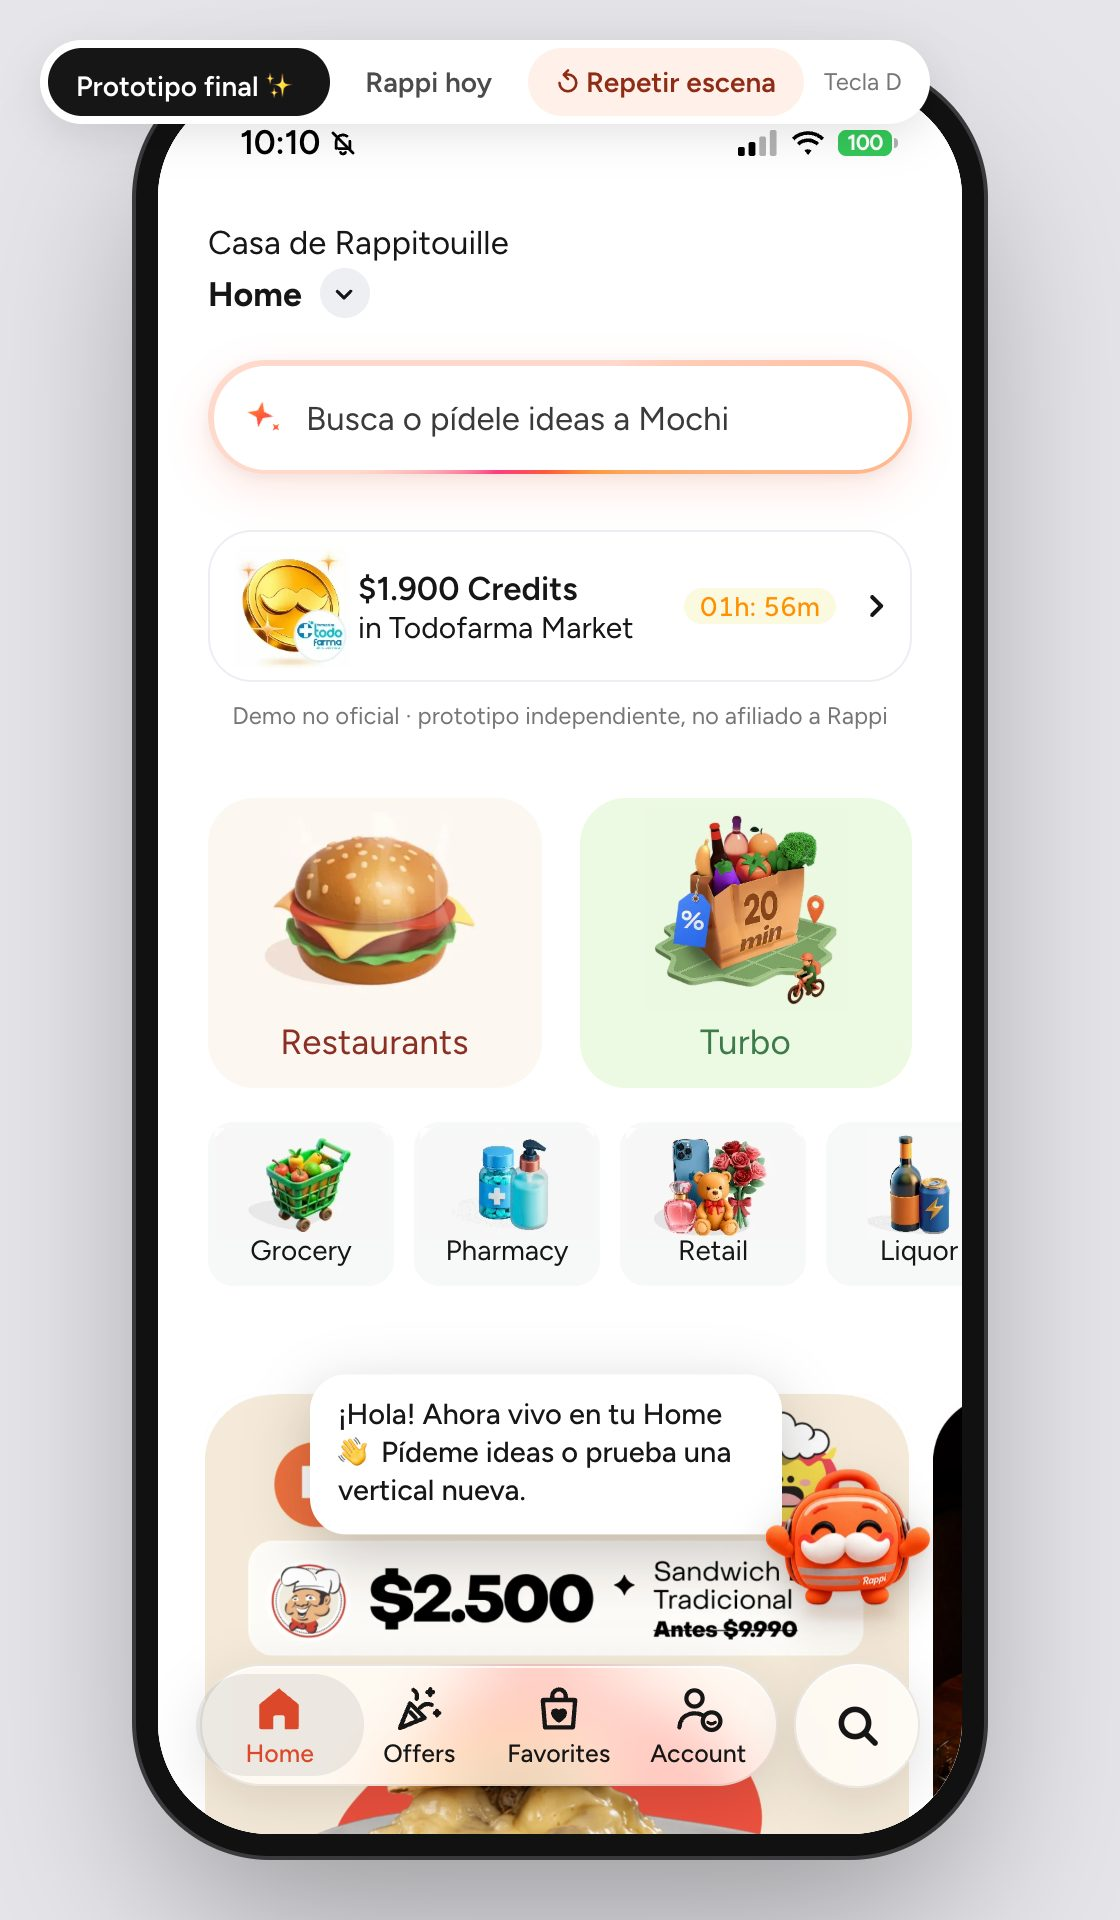
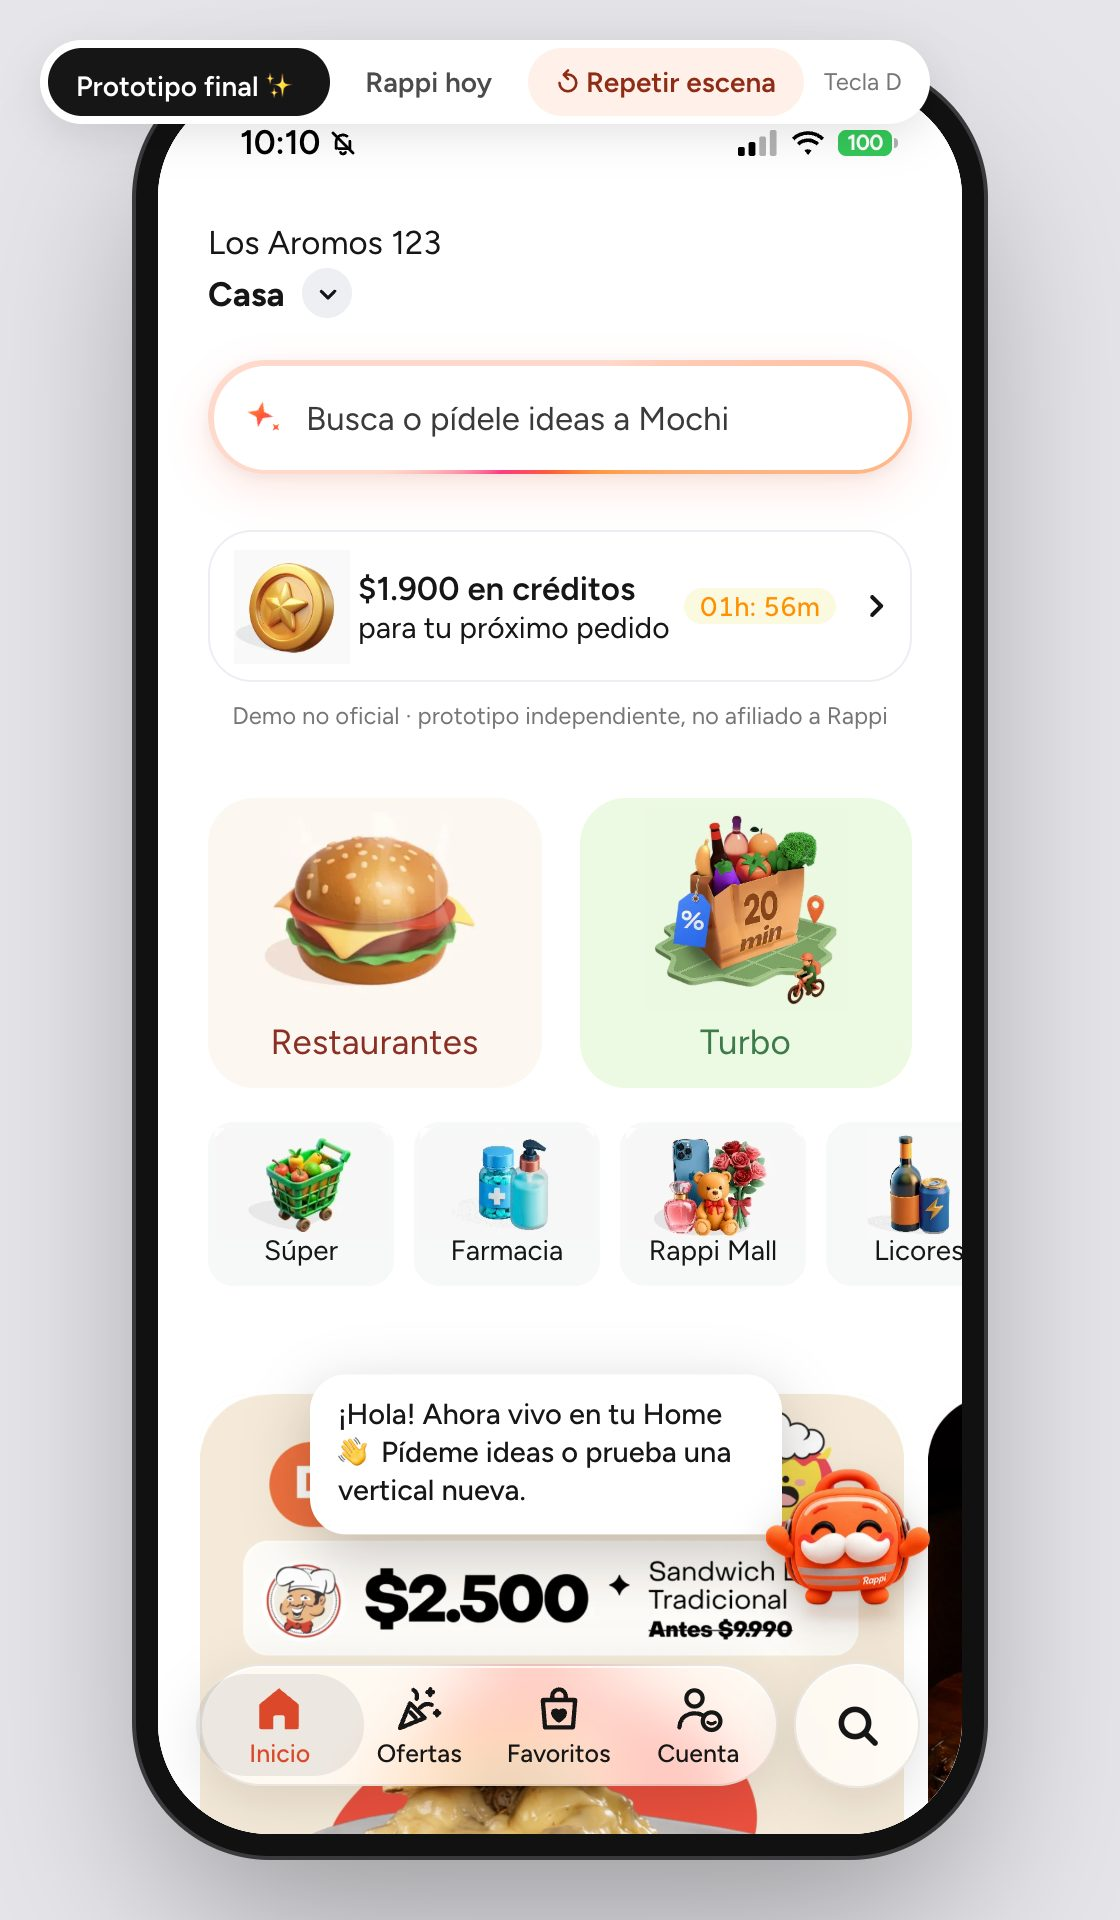
docs(app, panel): README, capturas y presentación al día
- Capturas de la app y del panel tomadas de nuevo el 24-10-2026 contra una API
  sobre rappi_staging: textos en español, sin marcas de terceros y con el aviso
  de no afiliado en el encabezado del panel. La presentación usa las mismas.
- README de la app: sin la historia que no le sirve al equipo nuevo, «Rappi
  hoy» rotulado como solo de la demo, 8 revisiones de mvp-check, src/test/ y
  utils/typed.js en la estructura, make-icons.sh solo en macOS y
  format:check en la tabla.
- README del panel: de dónde salen las respuestas sin conexión (una sola foto),
  «Panel de negocio (demo).html», cifras que calzan con lo que se ve y sin
  enlaces a docs/superpowers ni la skill dataviz.

diff --git a/dashboard-empresa/presentacion.html b/dashboard-empresa/presentacion.html
@@ -117,7 +117,7 @@
               src="/presentacion/buscador-mochi.jpg"
               width="804"
               height="1748"
-              alt="Buscador con Mochi: productos reales de Licores para un carrete y una sugerencia de jugos y néctares de Express"
+              alt="Buscador con Mochi: productos reales de Express para un carrete y una sugerencia de salsas y aderezos del Súper"
               loading="lazy"
             />
           </figure>
@@ -125,8 +125,8 @@
             <h3>Un ejemplo con el catálogo real</h3>
             <p>
               Alguien toca «Arma un carrete». Mochi, el asistente del prototipo, responde con
-              productos reales de Licores y agrega una sola sugerencia de otro vertical: jugos y néctares de
-              Express, con la razón a la vista.
+              productos reales de Express (snacks y bebidas: sin alcohol si no se lo piden) y agrega una sola sugerencia
+              de otro vertical: salsas y aderezos del Súper, con la razón a la vista.
             </p>
             <ul class="rules">
               <li>Como máximo una sugerencia cruzada por respuesta.</li>

diff --git a/dashboard-empresa/README.md b/dashboard-empresa/README.md
@@ -2,7 +2,7 @@
 
 > **Parte del MVP.** `make mvp` lo levanta junto a la API y la app, y lee la API (`/analytics`). Con la fuente **Simulados** muestra la mecánica del panel; con la fuente **Prototipo**, lo que la gente hizo en la app (ofertas de Mochi por momento, búsquedas sin resultado, a quién invitar a volver), siempre rotulado «uso del MVP, pocas personas: no es evidencia».
 
-> Proyecto independiente: no está afiliado a Rappi ni cuenta con su respaldo. Las marcas pertenecen a sus dueños. La etiqueta «Rappi Chile · propuesta» del encabezado es parte de la maqueta.
+> Prototipo independiente del programa dLab: no está afiliado a Rappi ni cuenta con su respaldo, y el encabezado del panel lo dice. Las marcas pertenecen a sus dueños.
 
 Panel para dos públicos de Rappi: la **gerencia general** (crecimiento, retención y venta cruzada entre verticales) y **RappiAds** (a quién ofrecer qué, en qué momento y con qué resultado). Se ordena en cuatro preguntas, cada una con su cifra, su comparación y una acción sugerida:
 
@@ -11,7 +11,7 @@ Panel para dos públicos de Rappi: la **gerencia general** (crecimiento, retenci
 3. **¿Funciona lo que ofrece Mochi?** Ofertas por momento, sugerencias entre verticales, servicios sin catálogo y el motor contra una regla simple.
 4. **¿Qué buscan y no encuentran?** Búsquedas sin resultado con su tendencia, la demanda agrupada con su acción, lo que sube y dónde hay poco surtido.
 
-Lo que no responde a una de esas preguntas salió del panel el 22-10-2026 (embudo, cohortes, ritmo, afinidad, salud del catálogo, accesos de la Home): el porqué de cada bloque está en [el plan del rediseño](../docs/superpowers/plans/2026-10-22-panel-rediseno.md). Las definiciones de cada métrica vienen de [docs/diseno-ia.md §5](../docs/diseno-ia.md#5-panel-para-la-empresa-vale-la-pena). Los datos salen de la API de [`rappi-ia`](../rappi-ia/).
+Lo que no responde a una de esas preguntas no está en el panel; el porqué del diseño está en [docs/decisiones.md](../docs/decisiones.md#datos-simulados-y-panel). Las definiciones de cada métrica vienen de [docs/diseno-ia.md §5](../docs/diseno-ia.md#5-panel-para-la-empresa-vale-la-pena). Los datos salen de la API de [`rappi-ia`](../rappi-ia/).
 
 > **Usuarios, eventos y pedidos SIMULADOS.** Se generan con `rappi-ia/src/rappi_ia/events/synth.py` (3.000 usuarios × 26 semanas, semilla 7, `source = 'synthetic'`) y supuestos explícitos. El panel **muestra la mecánica, no evidencia**. Por ejemplo, el simulador asume que quien usa más verticales se va menos, así que esa relación aparece por construcción. La tabla de Rappi sí es un dato real (agregado, cohortes de enero a junio de 2026), y es una correlación, no un efecto.
 
@@ -46,7 +46,7 @@ Desde la raíz del repositorio:
 
 La URL de la API se cambia con `VITE_API_URL`, por ejemplo `VITE_API_URL=http://localhost:8001 npm run dev` o en `.env.local`. La API ya acepta peticiones desde `localhost:51xx` (CORS). Desde el iPhone (`make mvp LAN=1`) no hace falta configurar nada: busca la API en el mismo host. En el build de producción, sin `VITE_API_URL`, la busca en `/api` (el mismo origen); `PANEL_BASE=/panel/` lo construye para servirlo bajo una subruta. En un servidor el panel es opcional: se construye en `/panel/` con `WITH_PANEL=1` y necesita `API_ENABLE_ANALYTICS=1`, porque en producción `/analytics` viene apagado ([docs/despliegue.md](../docs/despliegue.md)).
 
-**Sin la API** el panel funciona con datos **simulados**: cada consulta que falla, o que tarda más de 30 s, cae a la respuesta guardada en `src/fixtures/`. Cada archivo trae su `guardado` (`origen` y `fecha`), y el aviso «Modo sin conexión (datos guardados)» lo cita, además de decir qué consultas fallaron y por qué. La tabla de Rappi viene en la misma respuesta de combinaciones, así que también se ve sin conexión. Con la fuente **Prototipo** no hay respaldo: el uso del MVP solo se ve con la base viva, y sin la API cada bloque dice «La API no responde» (las cifras guardadas serían de un recorrido de prueba, no de nadie). Trae un botón *Reintentar*.
+**Sin la API** el panel funciona con datos **simulados**: cada consulta que falla, o que tarda más de 30 s, cae a la respuesta guardada en `src/fixtures/sin-conexion/`. Son todas de una misma foto de la API (`npm run fixtures`, ver abajo): hoy, la del 24-10-2026 sobre `rappi_staging`, con las 3.000 personas simuladas, así que las cifras calzan entre sí y con este README. Cada archivo trae su `guardado` (`origen` y `fecha`), y el aviso «Modo sin conexión (datos guardados)» lo cita, además de decir qué consultas fallaron y por qué. La tabla de Rappi viene en la misma respuesta de combinaciones, así que también se ve sin conexión. Con la fuente **Prototipo** no hay respaldo: el uso del MVP solo se ve con la base viva, y sin la API cada bloque dice «La API no responde» (las cifras guardadas serían de un recorrido de prueba, no de nadie). Trae un botón *Reintentar*.
 
 **Datos nuevos.** Cada consulta se pide una vez por fuente y queda en memoria mientras la página esté abierta (`/analytics/weekly` tarda varios segundos). El botón *Actualizar*, junto a la fecha de corte, vuelve a pedir solo la fuente elegida: así se ve lo que se acaba de hacer en el prototipo sin recargar la página.
 
@@ -55,17 +55,18 @@ La URL de la API se cambia con `VITE_API_URL`, por ejemplo `VITE_API_URL=http://
 | `npm run dev` | Servidor de desarrollo en el puerto 5175 |
 | `npm test` | Tests (Vitest + Testing Library, sin red: usan `src/fixtures/`) |
 | `npm run lint` | ESLint (reglas de React Hooks 7) |
+| `npm run format:check` | Revisa el formato con Prettier sin cambiar nada (lo que corre el CI); `npm run format` lo arregla |
 | `npm run build` | Build de producción en `dist/` |
-| `npm run fixtures` | Vuelve a guardar las respuestas de la API en `src/fixtures/` (correr tras `make synth` o una actualización del catálogo). Las ofertas por momento, a quién invitar a volver, las búsquedas sin resultado, las combinaciones y el motor no pasan por aquí: las escribe `make contract` en `rappi-ia/` y el CI falla si quedan desactualizadas |
-| `npm run screenshots` | Regenera `docs/screenshots/` con el Chrome instalado y un Vite propio en el 5198 |
-| `npm run panel:snapshot` | Graba las respuestas que lee el panel (solo GET) desde una API sobre una copia de la base, en `snapshot/panel.json` (ignorada en git). Ver [Panel en un solo HTML](#panel-en-un-solo-html) |
-| `npm run panel:html` | Arma `dist-html/Panel Rappi.html`: el panel con esas respuestas adentro, que abre con doble clic sin la API ni internet |
+| `npm run fixtures` | Guarda en el repo las respuestas simuladas de la última foto de `npm run panel:snapshot`: las de `src/fixtures/sin-conexion/` (lo que se ve sin la API) y los ejemplos `*.synthetic.json` de los tests. Correrlo tras `make synth` o una actualización del catálogo, después de grabar la foto. El uso del prototipo no se guarda (lleva lo que hizo la gente). Los ejemplos de ofertas por momento, a quién invitar a volver, búsquedas sin resultado, combinaciones y motor de `src/fixtures/` no pasan por aquí: los escribe `make contract` en `rappi-ia/` (con su simulación chica) y el CI falla si quedan desactualizados |
+| `npm run screenshots` | Regenera `docs/screenshots/` con el Chrome instalado y un Vite propio en el 5198 (con `VITE_API_URL`, contra otra API: las de este README se tomaron el 24-10-2026 contra una API sobre `rappi_staging`) |
+| `npm run panel:snapshot` | Graba las respuestas que lee el panel (solo GET) desde una API sobre una copia de la base, en `snapshot/panel.json` (ignorada en git). La usan `npm run fixtures` y el [panel en un solo HTML](#panel-en-un-solo-html) |
+| `npm run panel:html` | Arma `dist-html/Panel de negocio (demo).html`: el panel con esas respuestas adentro, que abre con doble clic sin la API ni internet |
 
 Tests: las cifras vigentes están en [README.md#resultados](../README.md#resultados) (fila «Calidad»). CI en GitHub Actions: lint, tests y build.
 
 ## Vistas
 
-Arriba se elige la fuente de usuarios y eventos: **Simulados** o **Prototipo** (lo hecho en `prototipo-app`). La vista y la fuente quedan en la URL (`?vista=clientes&fuente=prototipo`), así que un enlace abre exactamente lo mismo. Los enlaces de antes del rediseño siguen abriendo la vista que tiene su contenido (`vista=mvp`, `oportunidades` y `catalogo` → Mochi y búsquedas; `frecuencia` y `verticales` → Retención y venta cruzada).
+Arriba se elige la fuente de usuarios y eventos: **Simulados** o **Prototipo** (lo hecho en `prototipo-app`). La vista y la fuente quedan en la URL (`?vista=clientes&fuente=prototipo`), así que un enlace abre exactamente lo mismo; una vista que no existe abre el Resumen.
 
 ### 1. Resumen
 
@@ -98,7 +99,7 @@ Para la gerencia.
 
 Para RappiAds.
 
-- **Lo que ofrece Mochi:** ofertas mostradas, la tasa de aceptación y cuánto de lo aceptado entre verticales llega a pedido. Debajo, lado a lado: las **ofertas por momento**, cada una con una línea que dice dónde se hace (en un plan, con el carro armado, antes de pagar, para el próximo pedido, cuando una búsqueda no encontró nada, para probar otro vertical, en la recompra, al volver a pedir, en un perfil de gusto, al preguntarle o en «Para ti»), las **sugerencias entre verticales** que más se muestran («411 de 1.705» aceptadas, la tasa y cuántas llegaron a pedido; incluyen lo que la persona pidió al preguntarle, y Mochi no propone alcohol por su cuenta), los **servicios sin catálogo** (RappiTravel y RappiFavor: ofrecidos, abiertos y el gancho del catálogo aceptado) y **el motor contra una regla simple** (próximo vertical contra el orden fijo, compra cruzada contra lo más pedido y el paso de la escalera contra la vertical que más se suma, en el tramo de prueba de su evaluación por fechas). Aceptada: la oferta se agregó al carro (también en la recompra, aunque su botón sea «Ver producto»). La tasa aparece desde 10 mostradas, o desde 10 aceptadas para lo que llega a pedido; antes, solo las cuentas. El simulador no guarda el momento de la oferta: con los simulados el panel lo dice en una línea y las sugerencias ocupan todo el ancho.
+- **Lo que ofrece Mochi:** ofertas mostradas, la tasa de aceptación y cuánto de lo aceptado entre verticales llega a pedido. Debajo, lado a lado: las **ofertas por momento**, cada una con una línea que dice dónde se hace (en un plan, con el carro armado, antes de pagar, para el próximo pedido, cuando una búsqueda no encontró nada, para probar otro vertical, en la recompra, al volver a pedir, en un perfil de gusto, al preguntarle o en «Para ti»), las **sugerencias entre verticales** que más se muestran («212 de 944» aceptadas, la tasa y cuántas llegaron a pedido; incluyen lo que la persona pidió al preguntarle, y Mochi no propone alcohol por su cuenta), los **servicios sin catálogo** (RappiTravel y RappiFavor: ofrecidos, abiertos y el gancho del catálogo aceptado) y **el motor contra una regla simple** (próximo vertical contra el orden fijo, compra cruzada contra lo más pedido y el paso de la escalera contra la vertical que más se suma, en el tramo de prueba de su evaluación por fechas). Aceptada: la oferta se agregó al carro (también en la recompra, aunque su botón sea «Ver producto»). La tasa aparece desde 10 mostradas, o desde 10 aceptadas para lo que llega a pedido; antes, solo las cuentas. El simulador no guarda el momento de la oferta: con los simulados el panel lo dice en una línea y las sugerencias ocupan todo el ancho.
 - **Qué buscan y no encuentran:** la demanda no satisfecha agrupada por concepto y vertical (5 o más personas), con su crecimiento, dónde existe y la acción sugerida; si ninguna llega a ese mínimo (lo normal con el prototipo), las búsquedas sin resultado por vertical y concepto, nunca con el texto que escribió cada persona. Al lado, **lo que sube** (señales de interés, 4 semanas contra las 4 anteriores, con «sin oferta» si además es demanda no satisfecha) y **poco surtido** (más personas buscando que ítems en la muestra pública).
 
 `make mvp-check` abre esta vista con la fuente del prototipo (puerto 5185) y comprueba que «Ofertas del agente por momento» muestra lo que dejaron las revisiones anteriores (qué revisa, en [docs/instalacion.md](../docs/instalacion.md#5-el-mvp)).
@@ -118,7 +119,7 @@ Todas las vistas tienen versión móvil (sin scroll horizontal; las tablas pasan
 
 ## Panel en un solo HTML
 
-«Panel Rappi.html» es el panel en un archivo que abre con doble clic, sin la API ni internet, y funciona como el de verdad: las tres vistas, las dos fuentes, los enlaces del Resumen, las tablas con «Ver tabla» y «Ver las N», y el tema claro u oscuro, todo con las respuestas de la API grabadas adentro (con las fuentes y los íconos). Se arma en dos pasos, desde una API propia sobre una **copia** de la base (`rappi_staging`), nunca sobre `rappi` ni en el puerto 8000:
+«Panel de negocio (demo).html» es el panel en un archivo que abre con doble clic, sin la API ni internet, y funciona como el de verdad: las tres vistas, las dos fuentes, los enlaces del Resumen, las tablas con «Ver tabla» y «Ver las N», y el tema claro u oscuro, todo con las respuestas de la API grabadas adentro (con las fuentes y los íconos). Se arma en dos pasos, desde una API propia sobre una **copia** de la base (`rappi_staging`), nunca sobre `rappi` ni en el puerto 8000:
 
 ```bash
 cd rappi-ia
@@ -128,10 +129,10 @@ DATABASE_URL=postgresql:///rappi_staging HF_HUB_OFFLINE=1 API_PREWARM=0 .venv/bi
 ```bash
 cd dashboard-empresa
 PANEL_API_URL=http://127.0.0.1:8020 npm run panel:snapshot
-PANEL_HTML_COPY="$HOME/Desktop/Panel Rappi.html" npm run panel:html
+PANEL_HTML_COPY="$HOME/Desktop/Panel de negocio (demo).html" npm run panel:html
 ```
 
-`panel:snapshot` solo pide (GET) las métricas de `src/lib/metrics.js` con las dos fuentes y se niega al puerto 8000 y a hosts de otro equipo. La API no dice sobre qué base corre: el nombre que muestra el archivo es el que declara `PANEL_SNAPSHOT_BASE` (por defecto, `rappi_staging`), y quien graba responde por él. `panel:html` construye el modo `panel-html` (las respuestas llegan por el módulo `virtual:panel-snapshot` de `vite.config.js`; en la app normal ese módulo vale `null`, así la foto nunca entra en `dist/`) y mete el JS, el CSS, el tema y el ícono en el HTML (~0,6 MB).
+`panel:snapshot` solo pide (GET) las métricas de `src/lib/metrics.js` con las dos fuentes y se niega al puerto 8000 y a hosts de otro equipo. La API no dice sobre qué base corre: el nombre que muestra el archivo es el que declara `PANEL_SNAPSHOT_BASE` (por defecto, `rappi_staging`), y quien graba responde por él. `panel:html` construye el modo `panel-html` (las respuestas llegan por el módulo `virtual:panel-snapshot` de `vite.config.js`; en la app normal ese módulo vale `null`, así la foto nunca entra en `dist/`) y mete el JS, el CSS, el tema y el ícono en el HTML (~0,5 MB).
 
 Se ve todo lo del panel con las dos fuentes, los rótulos de procedencia de siempre y un aviso fijo «Foto sin conexión» con la fecha y la base de donde salió.
 
@@ -142,7 +143,7 @@ No se puede: actualizar (no hay API; el botón no aparece), ver la presentación
 ## Cómo se lee
 
 - **Cada número con su contexto.** Una comparación (la combinación siguiente, las perdidas, la regla simple), la tendencia de 4 semanas o lo que lo explica. Las tasas aparecen desde 10 casos en su denominador; antes, solo las cuentas. Rojo solo para lo que empeora y verde para lo que mejora, siempre con flecha y texto; la demanda que crece va en gris, porque no es un resultado bueno ni malo.
-- **Color con significado.** El naranja Rappi para magnitud y para lo que se propone; el gris para el contexto (en la escalera, la retención de hoy), validado con la skill dataviz (contraste de 3:1 con el fondo y separable del naranja con daltonismo); el ámbar rayado marca lo simulado.
+- **Color con significado.** El naranja Rappi para magnitud y para lo que se propone; el gris para el contexto (en la escalera, la retención de hoy), con contraste de 3:1 con el fondo y separable del naranja con daltonismo; el ámbar rayado marca lo simulado.
 - **Todo valor se puede leer sin el gráfico.** La escalera tiene su tabla (*Ver tabla*) y su descripción para lectores de pantalla; la serie semanal, su tabla.
 - **Accesibilidad.** Pestañas accesibles (← → Inicio Fin; en el teléfono, con nombres cortos: Resumen, Clientes y Mochi); los enlaces del Resumen llevan el foco al título de la sección; bajo 900 px las tablas pasan a tarjetas; respeto de `prefers-reduced-motion`.
 
@@ -152,7 +153,7 @@ No se puede: actualizar (no hay API; el botón no aparece), ver la presentación
 src/
 ├── App.jsx                 pestañas, fuente, aviso de procedencia, enlaces a una sección
 ├── presentacion.js         página de presentación de la propuesta (con presentacion.html y public/presentacion/)
-├── lib/                    api.js (API, respaldo y foto), metrics.js (lo que lee el panel), format.js (es-CL), labels.js, hooks
+├── lib/                    api.js (API, respaldo y foto), metrics.js (lo que lee el panel), agentName.js (el nombre visible del agente), format.js (es-CL), labels.js, hooks
 ├── components/             tabla, insignias, cifras, estados vacío/carga/error
 │   ├── charts/             chispa de tendencia (SVG propio, sin librerías)
 │   └── shell/              encabezado, selector de fuente, tema, pestañas
@@ -161,10 +162,10 @@ src/
 │   ├── customers/          Retención y venta cruzada: la escalera (ladder.js) y el rescate (audiences.js)
 │   └── mochi/              Mochi y búsquedas: ofertas (offers.js), motor (motor.js) y demanda (demand.js)
 ├── demo/                   «Ver cómo funciona» (solo en el panel en un solo HTML): el recorrido (tour.js) y su tarjeta
-├── fixtures/               respuestas guardadas de la API (tests y modo sin conexión)
+├── fixtures/               respuestas de ejemplo de la API para los tests; sin-conexion/, las que se ven sin la API
 ├── styles/                 estilos
 └── test/                   API falsa para los tests de render
-scripts/                    update-fixtures.mjs, screenshots.mjs, panel-snapshot.mjs y panel-html.mjs (el HTML suelto)
+scripts/                    panel-snapshot.mjs (la foto de la API), update-fixtures.mjs, screenshots.mjs y panel-html.mjs (el HTML suelto)
 docs/screenshots/           capturas (en git solo las 5 que usa este README, comprimidas)
 ```
 
